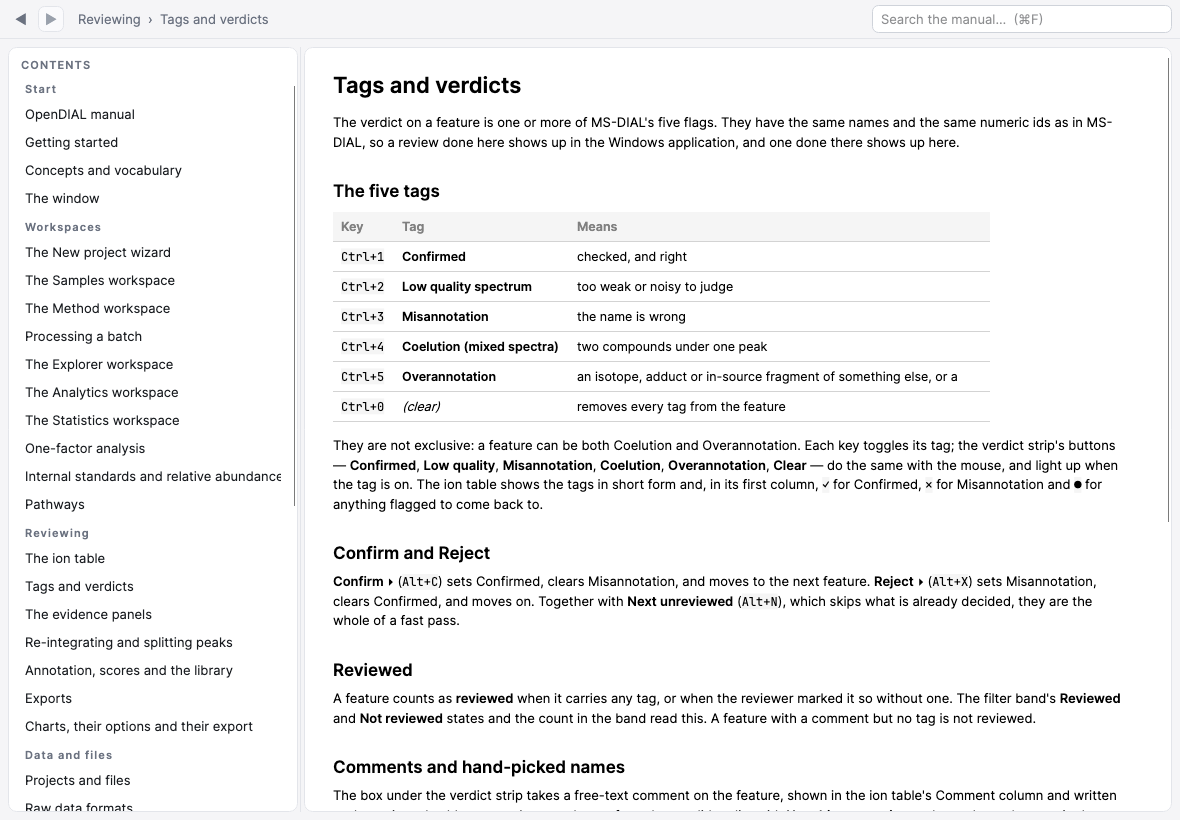
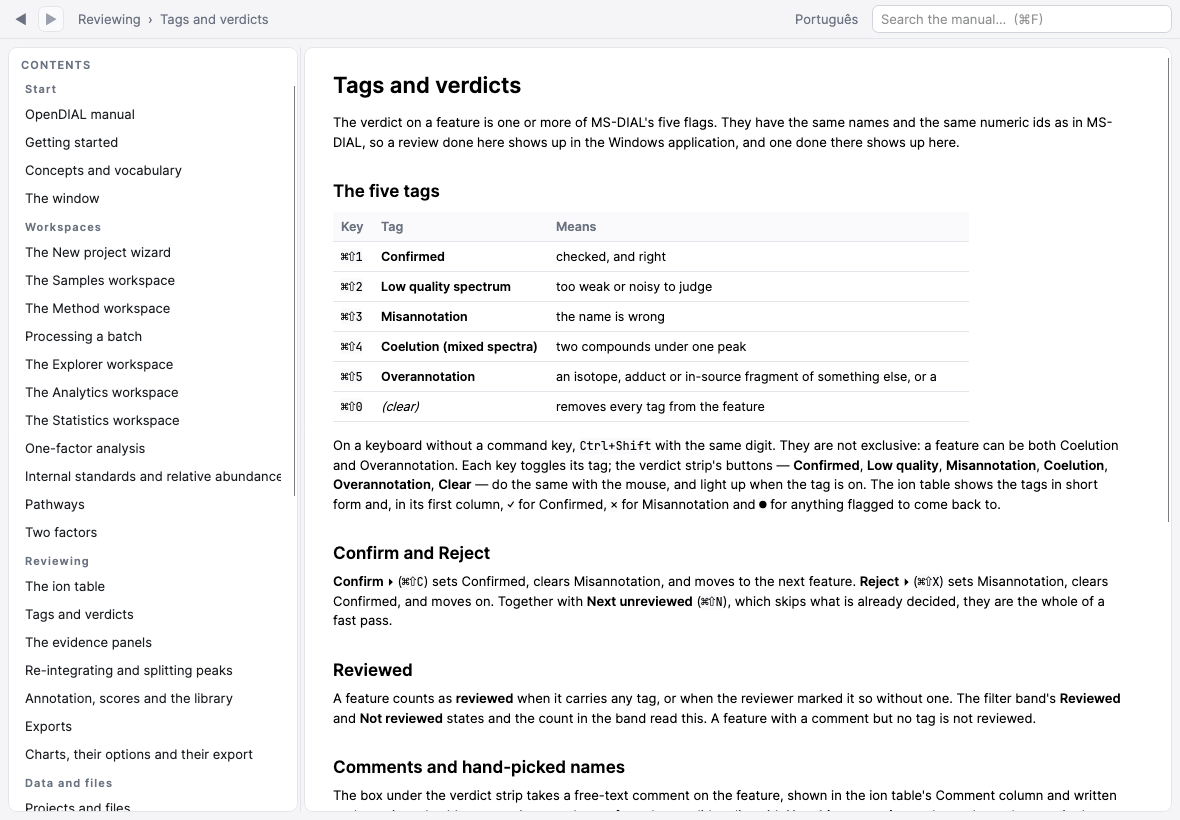
The review keys are ⌘⇧ with a digit, bound on the windows, and the mirror's labels keep off the peaks
The tag keys had been written as Ctrl with a bare digit, which Avalonia parses to
another key, so they never fired; Alt+C lived on the Analytics control and fired
only while the focus sat inside it. The review is now ⌘⇧ (Ctrl+Shift) with a digit
for a tag, C and X for the verdicts, N for the next unreviewed feature and the
arrows for the next and previous one, bound on the main window and on the ion
table's own window, forwarded by the shell only while the review is on screen. A
headless test presses the keys; the smoke test presses ⌘⇧1 on the installed
application and sees the count move. The spectrum mirror's measured and reference
labels take the emptier side of their half instead of writing over a base peak at
the right edge.

diff --git a/opendial/tests/OpenDIAL.Desktop.Tests/GestureTests.cs b/opendial/tests/OpenDIAL.Desktop.Tests/GestureTests.cs
@@ -79,6 +79,62 @@ public class GestureTests
     }
 
     [AvaloniaFact]
+    public void Every_shortcut_on_the_ion_table_window_binds_the_key_it_names()
+    {
+        var window = new IonTableWindow();
+        Assert.NotEmpty(window.KeyBindings);
+        foreach (var binding in window.KeyBindings)
+        {
+            var gesture = binding.Gesture!;
+            Assert.False(gesture.Key is Key.None or Key.Cancel or Key.Clear or Key.Back or Key.Tab or Key.LineFeed,
+                $"{gesture} binds {gesture.Key}");
+        }
+    }
+
+    /// <summary>
+    /// The review keys used to live on the Analytics control, where they fired only while the focus
+    /// was inside it — and the tag ones were written as bare digits, so they never fired at all.
+    /// They are on the window now, with the shift key, and act only while the review is on screen.
+    /// </summary>
+    [AvaloniaFact]
+    public void The_tag_shortcut_tags_the_selected_feature_from_the_window()
+    {
+        var vm = new ViewModels.MainWindowViewModel(new Services.SettingsService(), new NoDialogs(), new NoMessages());
+        var folder = ReviewWorkspaceTests.LoadSessionInto(vm.Analytics);
+        var window = new MainWindow { DataContext = vm, Width = 1200, Height = 800 };
+        window.Show();
+        vm.Analytics.SelectedRow = vm.Analytics.IonRows[0];
+
+        // away from the review the key does nothing
+        vm.SelectedWorkspace = 4;
+        window.KeyPress(Key.D1, RawInputModifiers.Meta | RawInputModifiers.Shift, PhysicalKey.Digit1, "!");
+        Assert.Equal(0, vm.Analytics.ConfirmedCount);
+
+        // on it, ⌘⇧1 toggles Confirmed, and the control spelling does the same
+        vm.SelectedWorkspace = 1;
+        window.KeyPress(Key.D1, RawInputModifiers.Meta | RawInputModifiers.Shift, PhysicalKey.Digit1, "!");
+        Assert.Equal(1, vm.Analytics.ConfirmedCount);
+        window.KeyPress(Key.D1, RawInputModifiers.Control | RawInputModifiers.Shift, PhysicalKey.Digit1, "!");
+        Assert.Equal(0, vm.Analytics.ConfirmedCount);
+
+        // ⌘⇧C confirms and moves to the next feature
+        window.KeyPress(Key.C, RawInputModifiers.Meta | RawInputModifiers.Shift, PhysicalKey.C, "C");
+        Assert.Equal(1, vm.Analytics.ConfirmedCount);
+        Assert.Same(vm.Analytics.IonRows[1], vm.Analytics.SelectedRow);
+
+        // and with the table in its own window the keys work from the review's other window too
+        vm.SelectedWorkspace = 4;
+        vm.Analytics.IonTableDetached = true;
+        var torn = new IonTableWindow { DataContext = vm.Analytics, Width = 900, Height = 600 };
+        torn.Show();
+        torn.KeyPress(Key.D3, RawInputModifiers.Meta | RawInputModifiers.Shift, PhysicalKey.Digit3, "#");
+        Assert.Equal(1, vm.Analytics.RejectedCount);
+        torn.Close();
+        window.Close();
+        try { Directory.Delete(folder, true); } catch { }
+    }
+
+    [AvaloniaFact]
     public void The_workspace_shortcuts_actually_switch_workspace()
     {
         var vm = new ViewModels.MainWindowViewModel(

diff --git a/opendial/scripts/smoke-ui.py b/opendial/scripts/smoke-ui.py
@@ -104,6 +104,16 @@ def press(key_code: int, modifier: str = "command") -> None:
     osascript(f'tell application "System Events" to key code {key_code} using {modifier} down', check=True)
 
 
+def press_with(key_code: int, modifiers: str) -> None:
+    """A key with several modifiers, e.g. "command down, shift down"."""
+    front()
+    osascript(f'tell application "System Events" to key code {key_code} using {{{modifiers}}}', check=True)
+    # System Events can leave the modifiers logically down, and the next click then arrives as a
+    # shift-click or a command-click that a button ignores; let them go explicitly
+    if shutil.which("cliclick"):
+        subprocess.run(["cliclick", "ku:cmd,shift,ctrl,alt"], capture_output=True)
+
+
 def window_frame() -> tuple[float, float, float, float]:
     """The window's frame in screen points: where it is, and how big including its title bar."""
     position = osascript(f'tell application "System Events" to tell process "{APP_PROCESS}" '
@@ -634,12 +644,21 @@ def main() -> int:
                     check(ok, f"the volcano plot was written as {fmt}: {(result or {}).get('message')}")
 
             if args.project:
-                say("the ion table tears off, and docks back when its window is dragged over the main one")
+                say("the review keys tag the selected feature from wherever the focus is")
                 press(KEY_CODES[2])
                 state = wait_for(probe, lambda s: s.get("workspace") == 1, "Analytics", SHORTCUT_WAIT)
-                click_control(state, "control.ToggleIonTableWindow", "the Open in a window button")
-                state = wait_for(probe, lambda s: (s.get("review") or {}).get("ionTableDetached") is True,
-                                 "the table to open in its own window", 20)
+                before = (state.get("review") or {}).get("confirmed", 0)
+                press_with(KEY_CODES[1], "command down, shift down")
+                state = wait_for(probe, lambda s: (s.get("review") or {}).get("confirmed") == before + 1,
+                                 "⌘⇧1 to tag the selected feature Confirmed", SHORTCUT_WAIT)
+                check(True, f"⌘⇧1 tags the selected feature: {before} → {before + 1} confirmed")
+                press_with(KEY_CODES[1], "command down, shift down")
+                wait_for(probe, lambda s: (s.get("review") or {}).get("confirmed") == before, "⌘⇧1 again to take the tag off", SHORTCUT_WAIT)
+                check(True, "and ⌘⇧1 again takes it off, so the project is left as it was")
+
+                say("the ion table tears off, and docks back when its window is dragged over the main one")
+                state = click_until(probe, "control.ToggleIonTableWindow", "the Open in a window button",
+                                    lambda s: (s.get("review") or {}).get("ionTableDetached") is True, 20)
                 check(True, "the ion table opened in its own window")
                 time.sleep(0.8)
                 shot("ion-table-detached")

diff --git a/opendial/src/OpenDIAL.Desktop/Controls/SpectrumChart.cs b/opendial/src/OpenDIAL.Desktop/Controls/SpectrumChart.cs
@@ -97,10 +97,14 @@ public sealed class SpectrumChart : ChartBase
         {
             DrawSticks(ctx, plot, tx, ty, reference, Scale(reference), referenceColor, xMin, xMax, mirrored: true);
             ctx.DrawLine(new Pen(AxisBrush, 1), new Point(plot.X, zero), new Point(plot.Right, zero));
+            // each label sits in the corner of its half with the least peak under it, so a base peak
+            // at the right edge — the precursor's own neighbourhood — does not get its m/z written over
             var up = MakeText("measured", 10, new SolidColorBrush(measuredColor));
             var down = MakeText("reference", 10, new SolidColorBrush(referenceColor));
-            ctx.DrawText(up, new Point(plot.Right - up.Width - 6, plot.Y + 4));
-            ctx.DrawText(down, new Point(plot.Right - down.Width - 6, plot.Bottom - down.Height - 4));
+            var upLeft = LeftIsEmptier(Peaks, xMin, xMax);
+            var downLeft = LeftIsEmptier(reference, xMin, xMax);
+            ctx.DrawText(up, new Point(upLeft ? plot.X + 6 : plot.Right - up.Width - 6, plot.Y + 4));
+            ctx.DrawText(down, new Point(downLeft ? plot.X + 6 : plot.Right - down.Width - 6, plot.Bottom - down.Height - 4));
         }
 
         if (!double.IsNaN(PrecursorMz) && PrecursorMz >= xMin && PrecursorMz <= xMax)
@@ -111,6 +115,21 @@ public sealed class SpectrumChart : ChartBase
             var tri = Polyline(new[] { new Point(px, zero - 7), new Point(px - 5, zero - 1), new Point(px + 5, zero - 1) }, close: true);
             ctx.DrawGeometry(new SolidColorBrush(Categorical[1]), null, tri);
         }
+    }
+
+    /// <summary>Whether the left quarter of the visible range holds lower peaks than the right one.</summary>
+    internal static bool LeftIsEmptier(IReadOnlyList<Point>? peaks, double xMin, double xMax)
+    {
+        if (peaks is null || peaks.Count == 0) return false;
+        var quarter = (xMax - xMin) / 4;
+        double left = 0, right = 0;
+        foreach (var p in peaks)
+        {
+            if (p.X < xMin || p.X > xMax) continue;
+            if (p.X <= xMin + quarter) left = Math.Max(left, p.Y);
+            else if (p.X >= xMax - quarter) right = Math.Max(right, p.Y);
+        }
+        return left < right;
     }
 
     private void DrawSticks(Charts.ChartCanvas ctx, Rect plot, Func<double, double> tx, Func<double, double> ty, IReadOnlyList<Point> peaks, double scale, Color color,

diff --git a/opendial/tests/OpenDIAL.Desktop.Tests/ManualTests.cs b/opendial/tests/OpenDIAL.Desktop.Tests/ManualTests.cs
@@ -213,18 +213,18 @@ public class ManualTests
         var Embedded = Edition(language);
         var page = Embedded.Find("keyboard-shortcuts")!.Body;
         var window = Path.Combine(RepositoryRoot, "src", "OpenDIAL.Desktop", "Views", "MainWindow.axaml");
-        var analytics = Path.Combine(RepositoryRoot, "src", "OpenDIAL.Desktop", "Views", "AnalyticsView.axaml");
+        var ionTable = Path.Combine(RepositoryRoot, "src", "OpenDIAL.Desktop", "Views", "IonTableWindow.axaml");
         var gestures = new Regex(@"Gesture=""([^""]+)""");
         var missing = new List<string>();
-        foreach (var file in new[] { window, analytics })
+        foreach (var file in new[] { window, ionTable })
         {
             foreach (Match m in gestures.Matches(File.ReadAllText(file)))
             {
-                var gesture = Regex.Replace(m.Groups[1].Value
-                    .Replace("Down", "↓").Replace("Up", "↑")
-                    .Replace("Cmd+", "⌘").Replace("OemQuestion", "?").Replace("Shift+", "⇧").Replace("⌘⇧+", "⌘⇧"),
-                    @"D(\d)", "$1").Replace("⌘+", "⌘");
-                // "⌘S" is written "⌘S" on the page; "Ctrl+1" as "Ctrl+1"; "Alt+C" as "Alt+C"
+                var raw = m.Groups[1].Value;
+                var gesture = raw.StartsWith("Cmd+", StringComparison.Ordinal)
+                    ? Regex.Replace(raw.Replace("Cmd+", "⌘").Replace("Shift+", "⇧").Replace("OemQuestion", "?").Replace("Down", "↓").Replace("Up", "↑"), @"D(\d)", "$1")
+                    : Regex.Replace(raw.Replace("Down", "↓").Replace("Up", "↑"), @"D(\d)", "$1");
+                // "⌘S" is written "⌘S" on the page, "⌘⇧1" as "⌘⇧1"; "Ctrl+Shift+1" as "Ctrl+Shift+1"
                 if (!page.Contains(gesture, StringComparison.Ordinal)) missing.Add(m.Groups[1].Value + " (" + gesture + ")");
             }
         }

diff --git a/opendial/src/OpenDIAL.Desktop/ViewModels/MainWindowViewModel.cs b/opendial/src/OpenDIAL.Desktop/ViewModels/MainWindowViewModel.cs
@@ -114,6 +114,27 @@ public sealed partial class MainWindowViewModel : ViewModelBase
     [RelayCommand] private void SelectWorkspace(object? index) => SelectedWorkspace = index is string s && int.TryParse(s, out var i) ? i : index is int n ? n : SelectedWorkspace;
     [RelayCommand] private void ToggleLog() => ShowLog = !ShowLog;
 
+    /// <summary>
+    /// A review shortcut from the main window. They are bound on the window so they fire whatever has
+    /// the focus, and act only while the review is on screen: in the Analytics workspace, or with the
+    /// ion table in its own window, which is a review too.
+    /// </summary>
+    [RelayCommand]
+    private void ReviewKey(string? what)
+    {
+        if (SelectedWorkspace != 1 && !Analytics.IonTableDetached) return;
+        switch (what)
+        {
+            case "tag1": case "tag2": case "tag3": case "tag4": case "tag5": Analytics.ToggleTagCommand.Execute(what[3..]); break;
+            case "clear": Analytics.ClearTagsCommand.Execute(null); break;
+            case "confirm": Analytics.ConfirmAndNextCommand.Execute(null); break;
+            case "reject": Analytics.RejectAndNextCommand.Execute(null); break;
+            case "unreviewed": Analytics.NextUnreviewedCommand.Execute(null); break;
+            case "next": Analytics.NextSpotCommand.Execute(null); break;
+            case "previous": Analytics.PreviousSpotCommand.Execute(null); break;
+        }
+    }
+
     // ---------------------------------------------------------------- project lifecycle
 
     public async Task<bool> ConfirmDiscardAsync(string action)

diff --git a/opendial/tests/OpenDIAL.Desktop.Tests/ReviewWorkspaceTests.cs b/opendial/tests/OpenDIAL.Desktop.Tests/ReviewWorkspaceTests.cs
@@ -49,6 +49,16 @@ public class ReviewWorkspaceTests
     /// <summary>The same fixture, reachable from the visual tests.</summary>
     internal static (AnalyticsViewModel Vm, CurationStore Store, string Folder) NewAnalyticsForVisuals() => NewAnalytics();
 
+    /// <summary>Loads the same four-feature session into a view model that already exists — the shell's own.</summary>
+    internal static string LoadSessionInto(AnalyticsViewModel vm)
+    {
+        var folder = Path.Combine(Path.GetTempPath(), "opendial-ui-" + Guid.NewGuid().ToString("N"));
+        Directory.CreateDirectory(folder);
+        var store = CurationStore.Load(Path.Combine(folder, "AlignResult-1.arf"));
+        vm.LoadForTest(new[] { Row(0, "PC 34:1", "PC", 760.5851, 11.4), Row(1, "low score: PE 36:2", "PE", 744.5538, 10.9) }, Samples(), store);
+        return folder;
+    }
+
     private static (AnalyticsViewModel Vm, CurationStore Store, string Folder) NewAnalytics()
     {
         var folder = Path.Combine(Path.GetTempPath(), "opendial-ui-" + Guid.NewGuid().ToString("N"));

diff --git a/opendial/docs/manual/pt/versions.md b/opendial/docs/manual/pt/versions.md
@@ -25,8 +25,12 @@ A versão atual. Segue o MS-DIAL 5.5.260817.
 - A área Analytics abre no que confirmar um analito exige: a tabela de íons, o pico em toda amostra e o espectro de produto, tudo na tela de uma vez. A grade de picos é um painel próprio acima das abas de evidência em vez da primeira aba, e MS/MS é a aba mostrada por padrão; um divisor entre os dois define as alturas. O tamanho da grade é um único controle **Grid** `3 × 2`.
 - A janela da tabela de íons reencaixa ao ser arrastada sobre a parte esquerda da janela principal: o lugar que vai ocupar acende quando a barra de título o cruza, e soltar aí encaixa-a. Enquanto a tabela está fora, os picos e o espectro ocupam toda a largura; a coluna dela não fica mais vazia.
 
+- As teclas de revisão são `⌘⇧` (`Ctrl+Shift`) com um dígito para uma marcação, com C e X para os vereditos, com N para a próxima feature não revisada e com as setas para a seguinte e a anterior. Estão ligadas nas janelas, de modo que funcionam seja qual for o foco, na janela principal enquanto Analytics está na tela e na janela própria da tabela de íons.
+
 **Corrigido**
 
+- As teclas de marcação nunca disparavam: estavam escritas como `Ctrl` com um dígito puro, que o Avalonia lê como outra tecla; e `Alt+C` só disparava com o foco dentro da revisão.
+- Os rótulos *measured* e *reference* do espelho de espectros desenhavam por cima do m/z de um pico-base na borda direita; cada um toma agora o lado mais vazio da sua metade.
 - Depois de salvar, a mensagem da barra de ferramentas de Analytics desenhava por cima dos próprios botões; agora ocupa o espaço que os botões deixam e recorta, com a frase inteira na dica.
 - A ponte msconvert está verificada de ponta a ponta em Apple Silicon: o `small.RAW` do ProteoWizard converte pela máquina QEMU x86-64 do colima, pela linha de comando e pela aplicação instalada, em cerca de 30 segundos. A Rosetta não consegue correr o Wine da imagem, e o manual e a mensagem do conversor agora dizem isso e dão o caminho do colima.
 - Os trechos de código, as marcas da busca, os cabeçalhos de tabela e as réguas do manual tomavam as cores do tema claro fosse qual fosse o tema da janela, de modo que uma janela escura desenhava o código branco sobre branco. Todo pincel de uma página agora segue a janela em que está, e muda com o tema.

diff --git a/opendial/docs/manual/pt/review-tags.md b/opendial/docs/manual/pt/review-tags.md
@@ -15,14 +15,14 @@ aplicação Windows, e uma feita lá aparece aqui.
 
 | Tecla | Marcação | Significa |
 | --- | --- | --- |
-| `Ctrl+1` | **Confirmed** | verificada, e certa |
-| `Ctrl+2` | **Low quality spectrum** | fraca ou ruidosa demais para julgar |
-| `Ctrl+3` | **Misannotation** | o nome está errado |
-| `Ctrl+4` | **Coelution (mixed spectra)** | dois compostos sob um pico |
-| `Ctrl+5` | **Overannotation** | um isótopo, aduto ou fragmento em fonte de outra coisa, ou um nome que afirma mais do que o espectro mostra |
-| `Ctrl+0` | *(limpar)* | remove toda marcação da feature |
+| `⌘⇧1` | **Confirmed** | verificada, e certa |
+| `⌘⇧2` | **Low quality spectrum** | fraca ou ruidosa demais para julgar |
+| `⌘⇧3` | **Misannotation** | o nome está errado |
+| `⌘⇧4` | **Coelution (mixed spectra)** | dois compostos sob um pico |
+| `⌘⇧5` | **Overannotation** | um isótopo, aduto ou fragmento em fonte de outra coisa, ou um nome que afirma mais do que o espectro mostra |
+| `⌘⇧0` | *(limpar)* | remove toda marcação da feature |
 
-Não são exclusivas: uma feature pode ser Coelution e Overannotation ao mesmo tempo. Cada tecla
+Num teclado sem tecla de comando, `Ctrl+Shift` com o mesmo dígito. Não são exclusivas: uma feature pode ser Coelution e Overannotation ao mesmo tempo. Cada tecla
 alterna a sua marcação; os botões da faixa de veredito — **Confirmed**, **Low quality**,
 **Misannotation**, **Coelution**, **Overannotation**, **Clear** — fazem o mesmo com o mouse, e
 acendem quando a marcação está ligada. A tabela de íons mostra as marcações em forma curta e, na
@@ -31,9 +31,9 @@ sinalizada para voltar.
 
 ## Confirm e Reject
 
-**Confirm ▸** (`Alt+C`) põe Confirmed, limpa Misannotation, e passa à feature seguinte.
-**Reject ▸** (`Alt+X`) põe Misannotation, limpa Confirmed, e segue. Juntamente com **Next
-unreviewed** (`Alt+N`), que salta o que já está decidido, são tudo o que uma passagem rápida
+**Confirm ▸** (`⌘⇧C`) põe Confirmed, limpa Misannotation, e passa à feature seguinte.
+**Reject ▸** (`⌘⇧X`) põe Misannotation, limpa Confirmed, e segue. Juntamente com **Next
+unreviewed** (`⌘⇧N`), que salta o que já está decidido, são tudo o que uma passagem rápida
 precisa.
 
 ## Revisada

diff --git a/opendial/docs/manual/review-tags.md b/opendial/docs/manual/review-tags.md
@@ -15,14 +15,14 @@ one done there shows up here.
 
 | Key | Tag | Means |
 | --- | --- | --- |
-| `Ctrl+1` | **Confirmed** | checked, and right |
-| `Ctrl+2` | **Low quality spectrum** | too weak or noisy to judge |
-| `Ctrl+3` | **Misannotation** | the name is wrong |
-| `Ctrl+4` | **Coelution (mixed spectra)** | two compounds under one peak |
-| `Ctrl+5` | **Overannotation** | an isotope, adduct or in-source fragment of something else, or a name claiming more than the spectrum shows |
-| `Ctrl+0` | *(clear)* | removes every tag from the feature |
+| `⌘⇧1` | **Confirmed** | checked, and right |
+| `⌘⇧2` | **Low quality spectrum** | too weak or noisy to judge |
+| `⌘⇧3` | **Misannotation** | the name is wrong |
+| `⌘⇧4` | **Coelution (mixed spectra)** | two compounds under one peak |
+| `⌘⇧5` | **Overannotation** | an isotope, adduct or in-source fragment of something else, or a name claiming more than the spectrum shows |
+| `⌘⇧0` | *(clear)* | removes every tag from the feature |
 
-They are not exclusive: a feature can be both Coelution and Overannotation. Each key toggles its
+On a keyboard without a command key, `Ctrl+Shift` with the same digit. They are not exclusive: a feature can be both Coelution and Overannotation. Each key toggles its
 tag; the verdict strip's buttons — **Confirmed**, **Low quality**, **Misannotation**,
 **Coelution**, **Overannotation**, **Clear** — do the same with the mouse, and light up when the
 tag is on. The ion table shows the tags in short form and, in its first column, `✓` for Confirmed,
@@ -30,9 +30,9 @@ tag is on. The ion table shows the tags in short form and, in its first column, 
 
 ## Confirm and Reject
 
-**Confirm ▸** (`Alt+C`) sets Confirmed, clears Misannotation, and moves to the next feature.
-**Reject ▸** (`Alt+X`) sets Misannotation, clears Confirmed, and moves on. Together with
-**Next unreviewed** (`Alt+N`), which skips what is already decided, they are the whole of a fast
+**Confirm ▸** (`⌘⇧C`) sets Confirmed, clears Misannotation, and moves to the next feature.
+**Reject ▸** (`⌘⇧X`) sets Misannotation, clears Confirmed, and moves on. Together with
+**Next unreviewed** (`⌘⇧N`), which skips what is already decided, they are the whole of a fast
 pass.
 
 ## Reviewed

diff --git a/opendial/docs/manual/versions.md b/opendial/docs/manual/versions.md
@@ -24,8 +24,12 @@ The current version. It tracks MS-DIAL 5.5.260817.
 - The Analytics workspace opens on what confirming an analyte needs: the ion table, the peak in every sample, and the product spectrum, all on screen at once. The peak grid is a panel of its own above the evidence tabs instead of the first tab, and MS/MS is the tab showing by default; a divider between the two sets their heights. The grid's size is one **Grid** `3 × 2` control.
 - The ion table's window docks back by being dragged over the left part of the main window: the place it will take lights up as the title bar crosses it, and letting go there docks it. While the table is away, the peaks and the spectrum take the whole width; its column no longer stands empty.
 
+- The review keys are `⌘⇧` (`Ctrl+Shift`) with a digit for a tag, with C and X for the verdicts, with N for the next unreviewed feature and with the arrows for the next and previous one. They are bound on the windows, so they work whatever has the focus, in the main window while Analytics shows and in the ion table's own window.
+
 **Fixed**
 
+- The tag keys never fired: they were written as `Ctrl` with a bare digit, which Avalonia reads as another key; and `Alt+C` fired only while the focus sat inside the review.
+- The spectrum mirror's *measured* and *reference* labels drew over the m/z of a base peak at the right edge; each now takes the emptier side of its half.
 - After a save, the Analytics toolbar's message drew over its own buttons; it now takes the space the buttons leave and trims, with the whole sentence in its tooltip.
 - The msconvert bridge is verified end to end on Apple Silicon: ProteoWizard's `small.RAW` converts through colima's x86-64 QEMU machine, from the command line and from the installed application, in about 30 seconds. Rosetta cannot run the image's Wine, and the manual and the converter's message now say so and give the colima route.
 - The manual's code spans, search highlights, table headers and rules took their colours from the light theme whatever the window's theme, so a dark window drew its code white on white. Every brush on a page now follows the window it is in, and changes with the theme.

diff --git a/opendial/docs/manual/pt/keyboard-shortcuts.md b/opendial/docs/manual/pt/keyboard-shortcuts.md
@@ -32,20 +32,22 @@ listados, os dois funcionam em todo lado.
 
 | Atalho | Ação |
 | --- | --- |
-| `Ctrl+1` | alternar **Confirmed** |
-| `Ctrl+2` | alternar **Low quality spectrum** |
-| `Ctrl+3` | alternar **Misannotation** |
-| `Ctrl+4` | alternar **Coelution (mixed spectra)** |
-| `Ctrl+5` | alternar **Overannotation** |
-| `Ctrl+0` | limpar toda marcação da feature |
-| `Alt+C` | **Confirm ▸** — Confirmed, e a feature seguinte |
-| `Alt+X` | **Reject ▸** — Misannotation, e a feature seguinte |
-| `Alt+N` | **Next unreviewed** |
-| `Alt+↓` | feature seguinte |
-| `Alt+↑` | feature anterior |
+| `⌘⇧1` / `Ctrl+Shift+1` | alternar **Confirmed** |
+| `⌘⇧2` / `Ctrl+Shift+2` | alternar **Low quality spectrum** |
+| `⌘⇧3` / `Ctrl+Shift+3` | alternar **Misannotation** |
+| `⌘⇧4` / `Ctrl+Shift+4` | alternar **Coelution (mixed spectra)** |
+| `⌘⇧5` / `Ctrl+Shift+5` | alternar **Overannotation** |
+| `⌘⇧0` / `Ctrl+Shift+0` | limpar toda marcação da feature |
+| `⌘⇧C` / `Ctrl+Shift+C` | **Confirm ▸** — Confirmed, e a feature seguinte |
+| `⌘⇧X` / `Ctrl+Shift+X` | **Reject ▸** — Misannotation, e a feature seguinte |
+| `⌘⇧N` / `Ctrl+Shift+N` | **Next unreviewed** |
+| `⌘⇧↓` / `Ctrl+Shift+↓` | feature seguinte |
+| `⌘⇧↑` / `Ctrl+Shift+↑` | feature anterior |
 
-As teclas de marcação usam `Ctrl`, não `⌘`, em toda plataforma — `⌘1` a `⌘5` são as áreas de
-trabalho. Veja [[review-tags]].
+As teclas de revisão são as teclas de área de trabalho com shift: `⌘1` é uma área de trabalho,
+`⌘⇧1` é uma marcação. Funcionam seja qual for o foco — a tabela, um gráfico, uma caixa de texto —
+na janela principal enquanto Analytics está na tela e na janela própria da tabela de íons, e não
+fazem nada noutro lugar. Veja [[review-tags]].
 
 ## Gráficos
 

diff --git a/opendial/docs/manual/keyboard-shortcuts.md b/opendial/docs/manual/keyboard-shortcuts.md
@@ -32,19 +32,21 @@ both work everywhere.
 
 | Shortcut | Action |
 | --- | --- |
-| `Ctrl+1` | toggle **Confirmed** |
-| `Ctrl+2` | toggle **Low quality spectrum** |
-| `Ctrl+3` | toggle **Misannotation** |
-| `Ctrl+4` | toggle **Coelution (mixed spectra)** |
-| `Ctrl+5` | toggle **Overannotation** |
-| `Ctrl+0` | clear every tag on the feature |
-| `Alt+C` | **Confirm ▸** — Confirmed, and the next feature |
-| `Alt+X` | **Reject ▸** — Misannotation, and the next feature |
-| `Alt+N` | **Next unreviewed** |
-| `Alt+↓` | next feature |
-| `Alt+↑` | previous feature |
+| `⌘⇧1` / `Ctrl+Shift+1` | toggle **Confirmed** |
+| `⌘⇧2` / `Ctrl+Shift+2` | toggle **Low quality spectrum** |
+| `⌘⇧3` / `Ctrl+Shift+3` | toggle **Misannotation** |
+| `⌘⇧4` / `Ctrl+Shift+4` | toggle **Coelution (mixed spectra)** |
+| `⌘⇧5` / `Ctrl+Shift+5` | toggle **Overannotation** |
+| `⌘⇧0` / `Ctrl+Shift+0` | clear every tag on the feature |
+| `⌘⇧C` / `Ctrl+Shift+C` | **Confirm ▸** — Confirmed, and the next feature |
+| `⌘⇧X` / `Ctrl+Shift+X` | **Reject ▸** — Misannotation, and the next feature |
+| `⌘⇧N` / `Ctrl+Shift+N` | **Next unreviewed** |
+| `⌘⇧↓` / `Ctrl+Shift+↓` | next feature |
+| `⌘⇧↑` / `Ctrl+Shift+↑` | previous feature |
 
-The tag keys use `Ctrl`, not `⌘`, on every platform — `⌘1` to `⌘5` are the workspaces. See
+The review keys are the workspace keys with the shift key added: `⌘1` is a workspace, `⌘⇧1` is a
+tag. They work whatever has the focus — the table, a chart, a text box — in the main window while
+Analytics is showing and in the ion table's own window, and do nothing elsewhere. See
 [[review-tags]].
 
 ## Charts
